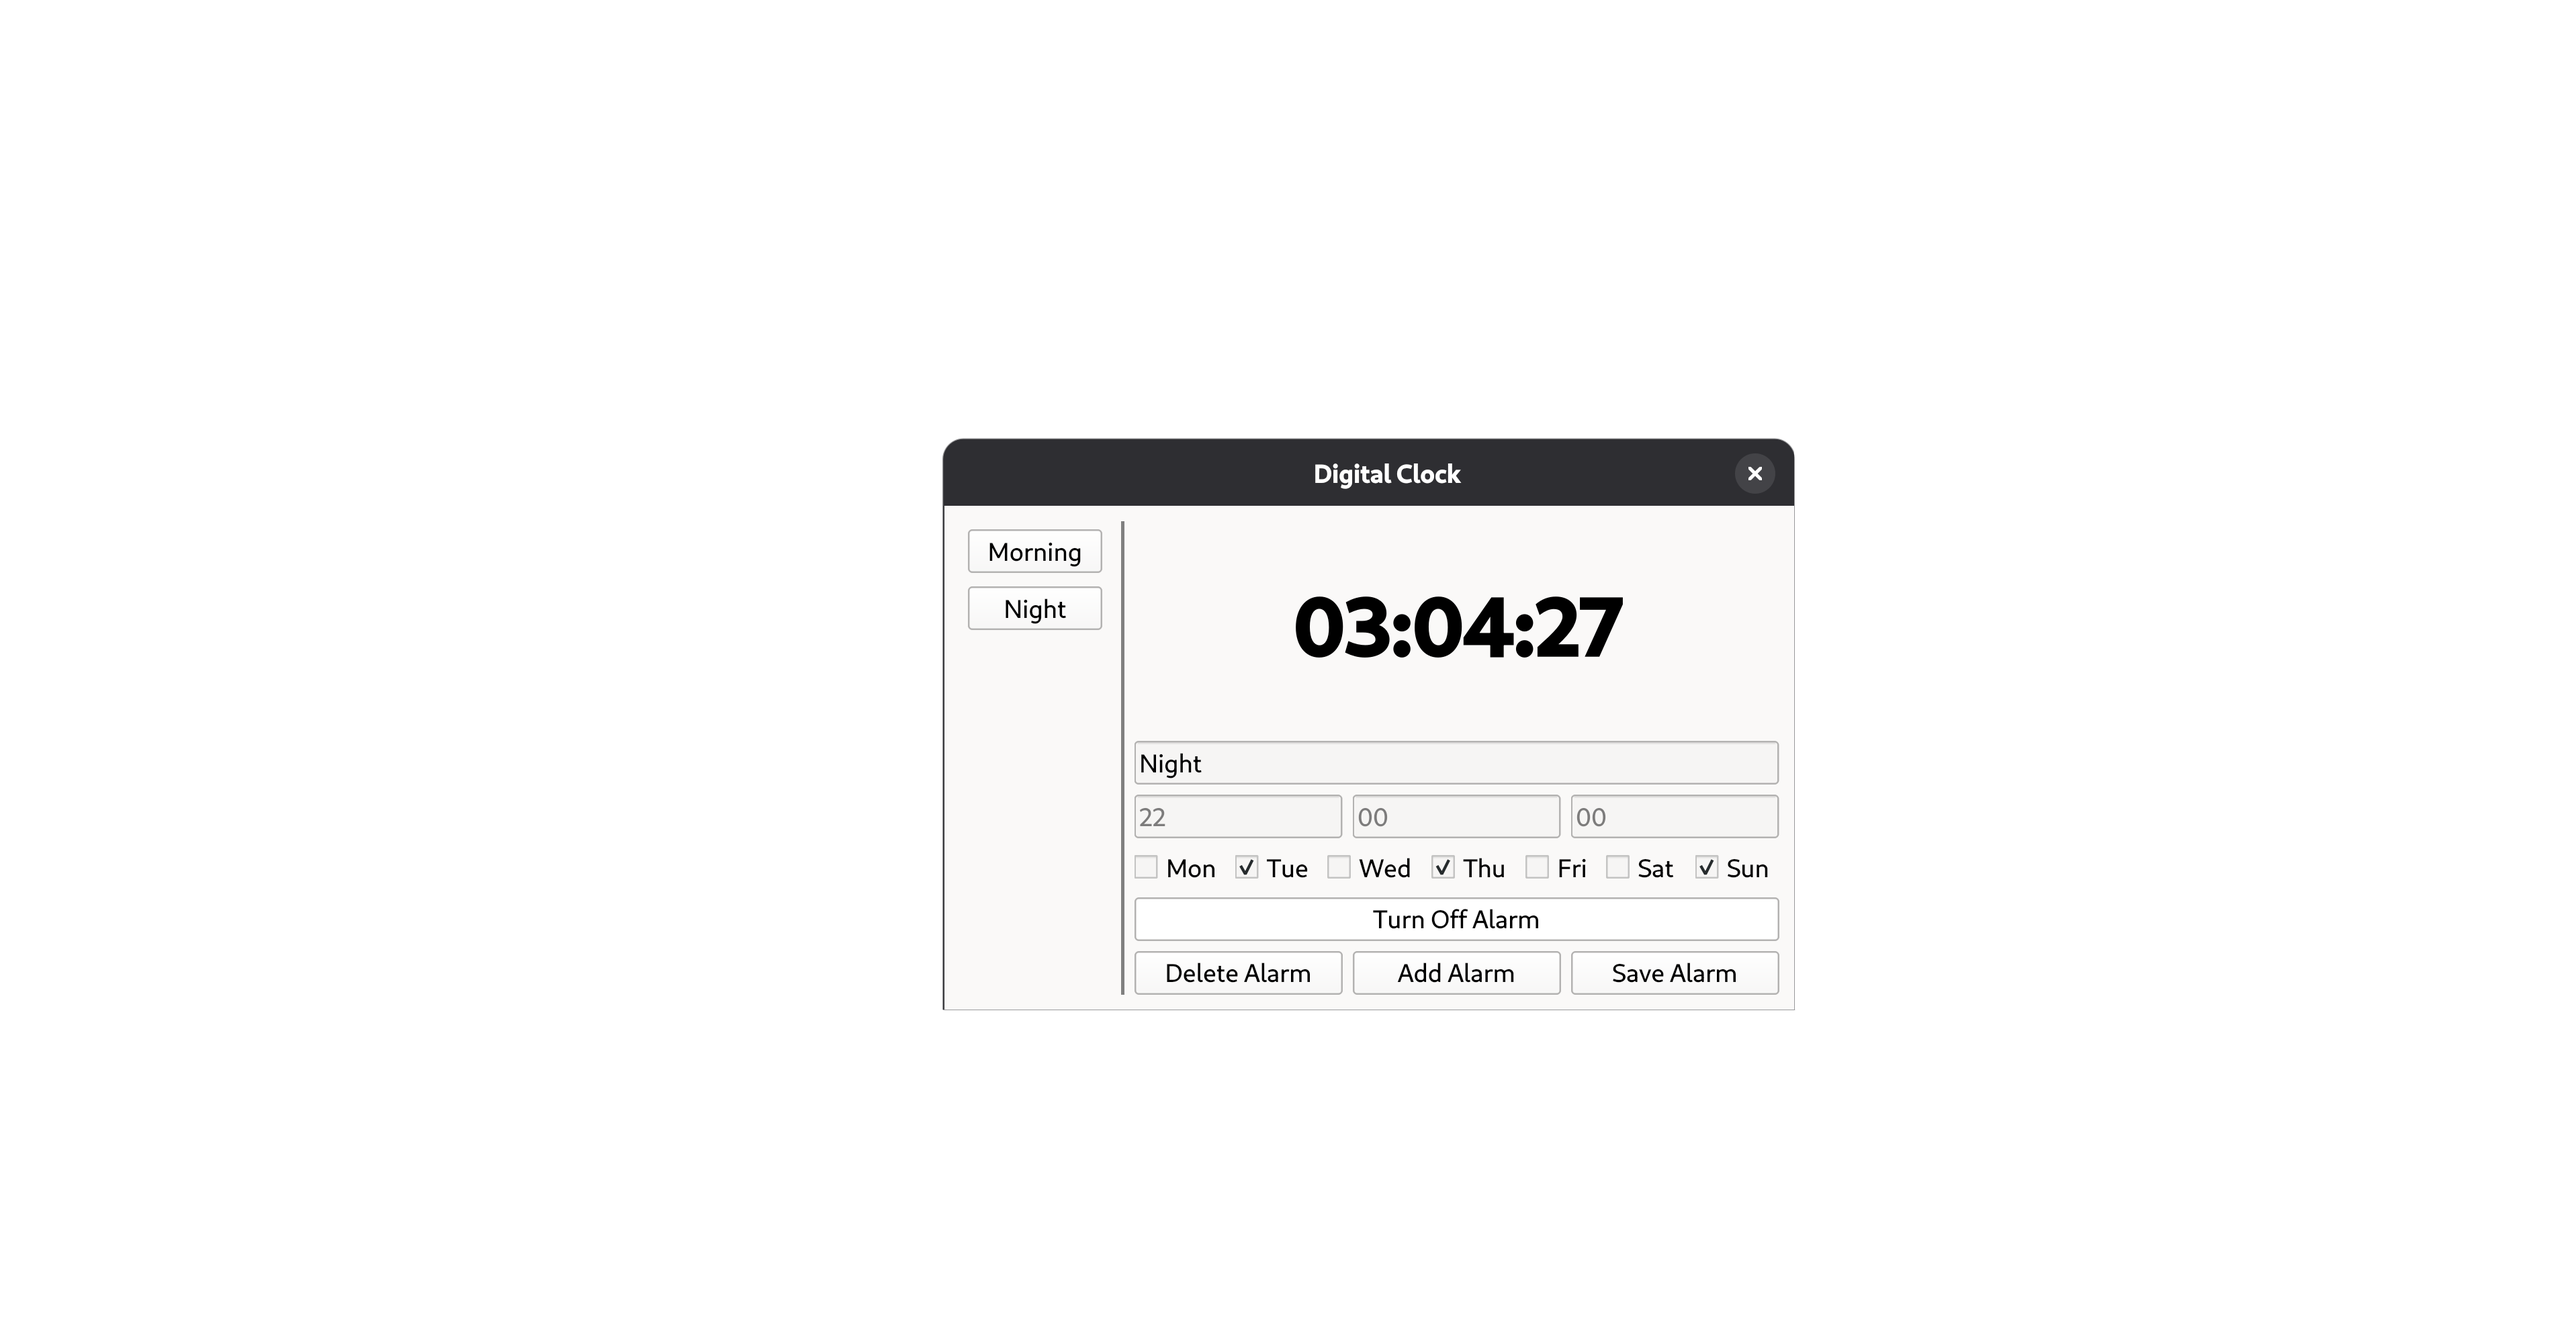
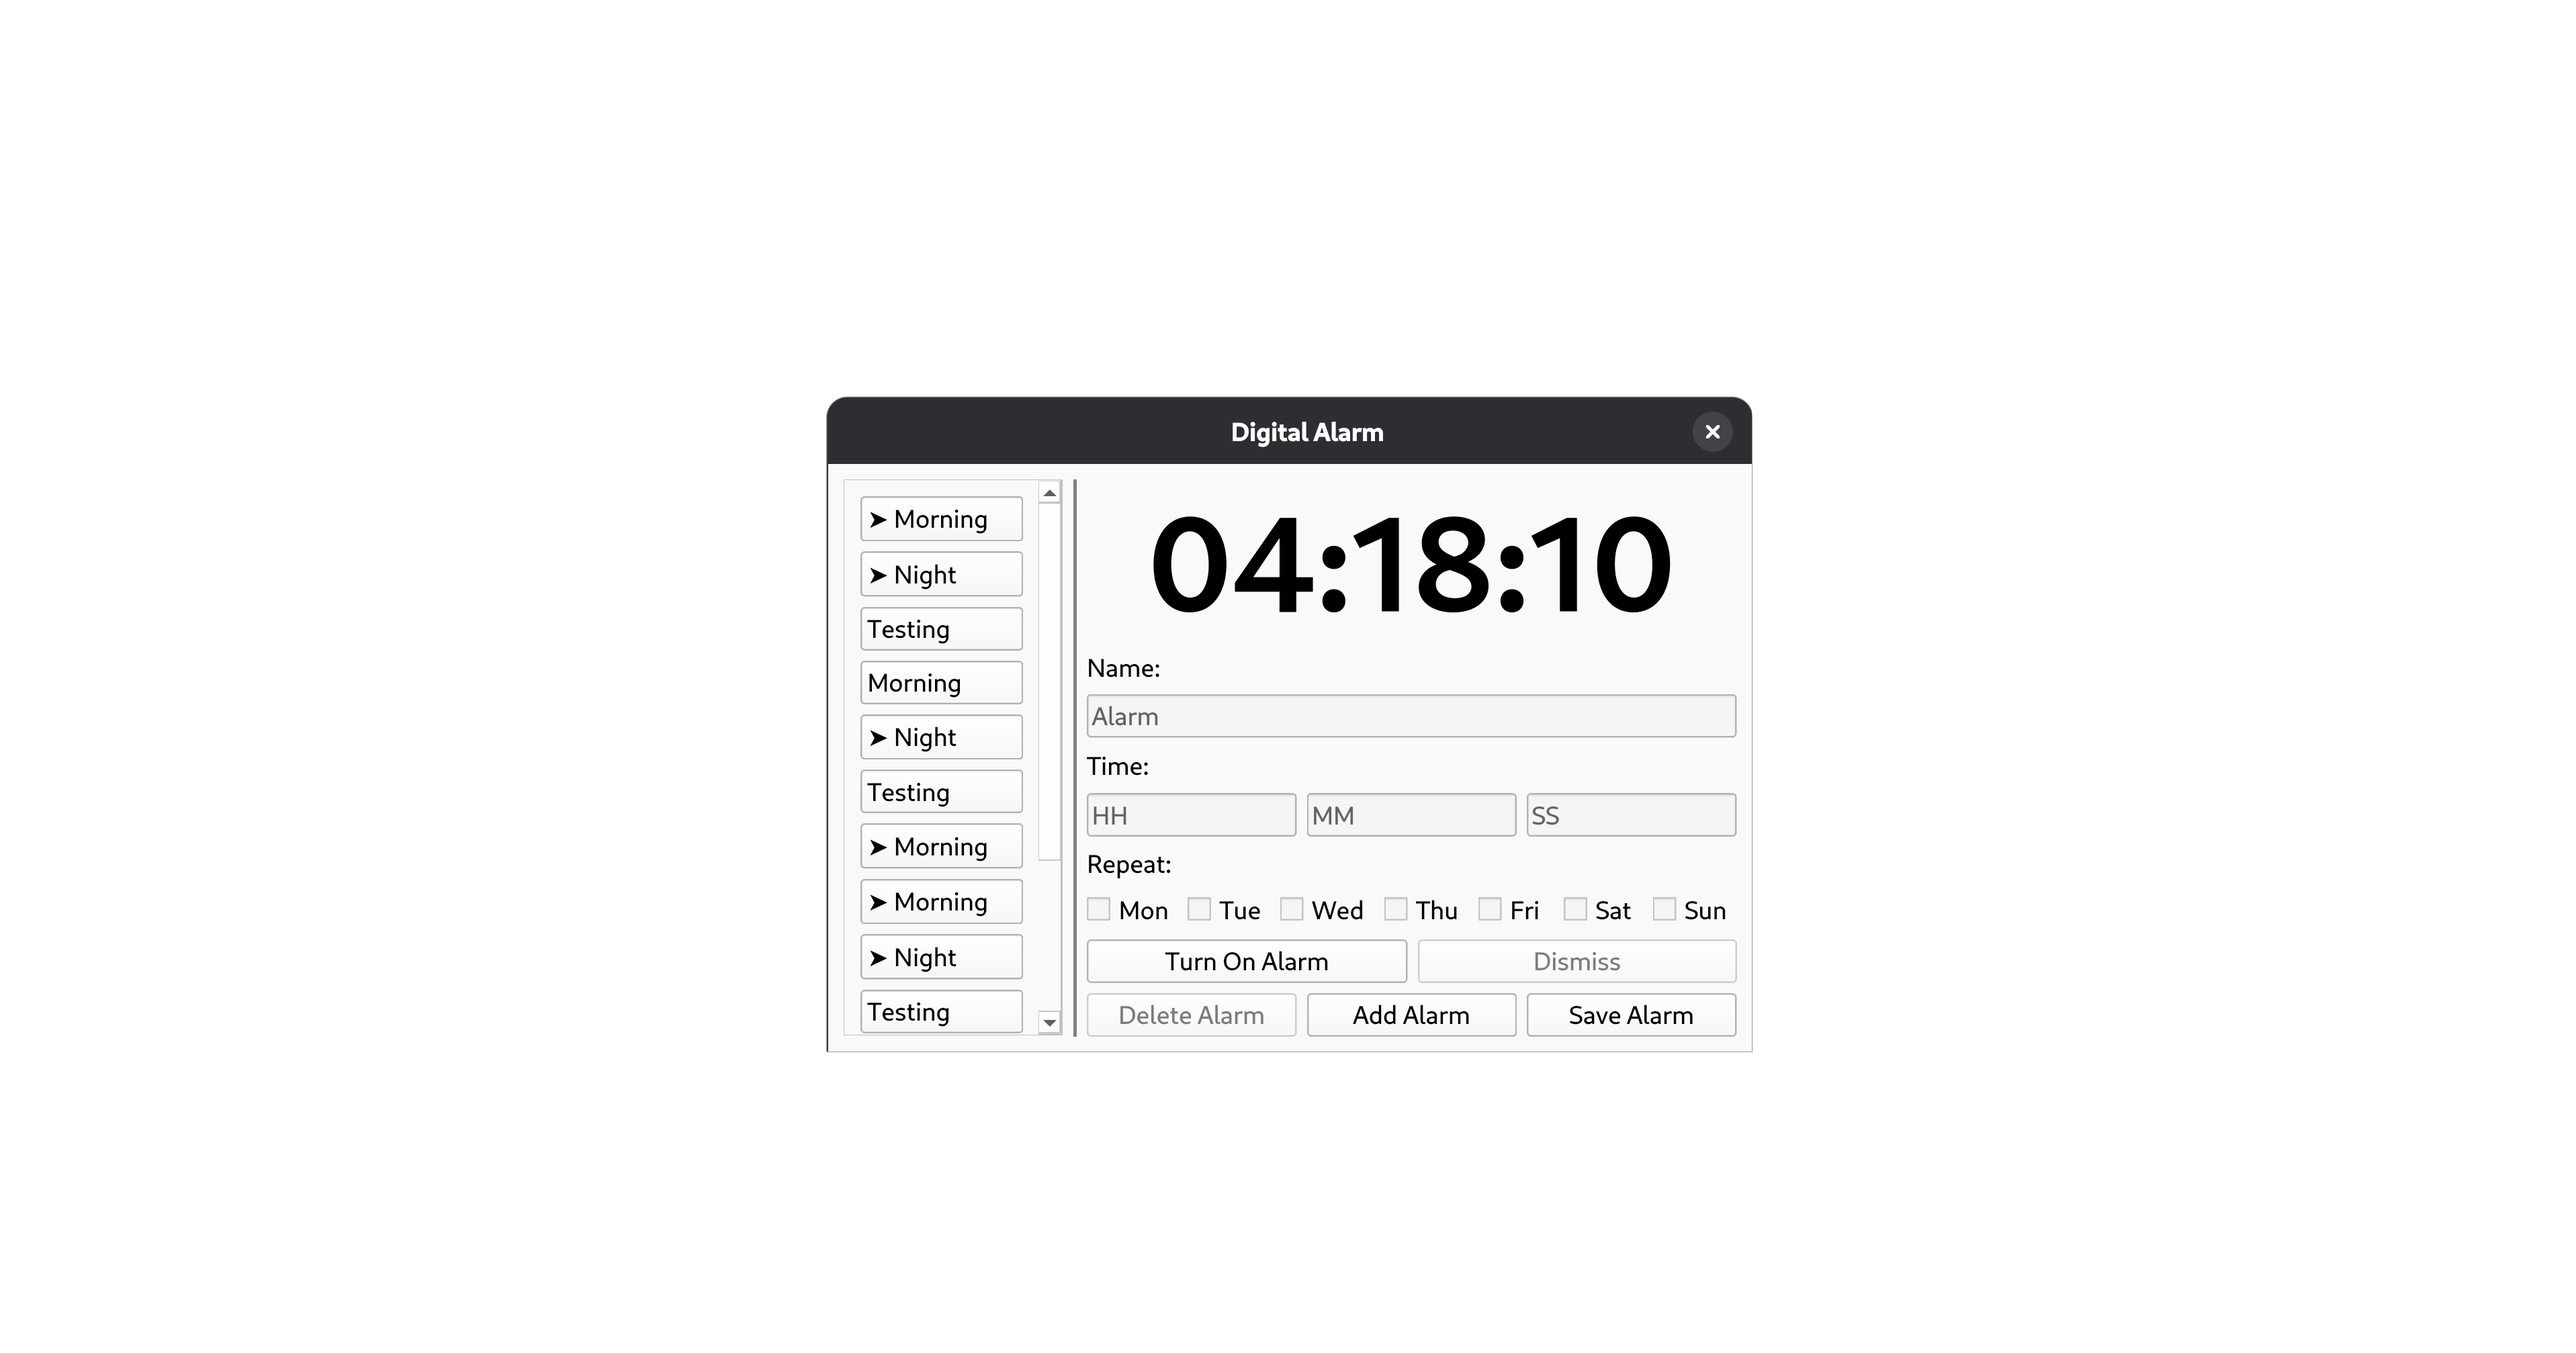
updated the screenshots

Changed region(s): [[0.3103, 0.2797, 0.7137, 0.7769]]

diff --git a/ui.py b/ui.py
@@ -35,7 +35,7 @@ class MainWindow(QMainWindow):
         
     def setup_ui(self):
         # Create and arrange the widgets
-        self.setGeometry(100, 100, 540, 350)
+        self.setGeometry(0, 0, 550, 350)
         self.setWindowTitle("Digital Alarm")
 
         # Create central widget and layout
@@ -52,7 +52,6 @@ class MainWindow(QMainWindow):
         self.scroll.setWidget(self.top_container)
         main_layout.addWidget(self.scroll)
         
-        main_layout.addLayout(self.left_column)
         self.left_column.setAlignment(Qt.AlignmentFlag.AlignTop)
         
         self.separator = QWidget()
@@ -155,7 +154,12 @@ class MainWindow(QMainWindow):
         self.action_inputs(False)
 
     def render_alarm_list(self):
-        self.separator.setVisible(len(self.alarms) > 0)
+        if len(self.alarms) > 0:
+            self.scroll.show()
+            self.separator.setVisible(True)
+        else:
+            self.scroll.hide()
+            self.separator.setVisible(False)
         
         # clear layout
         for i in reversed(range(self.left_column.count())):
